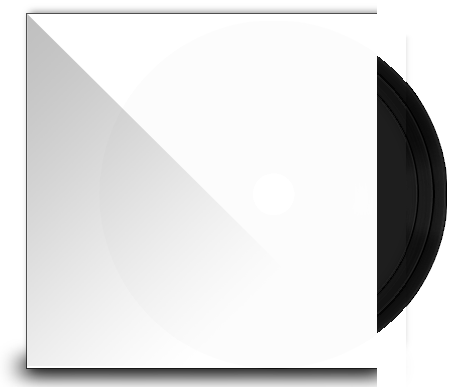
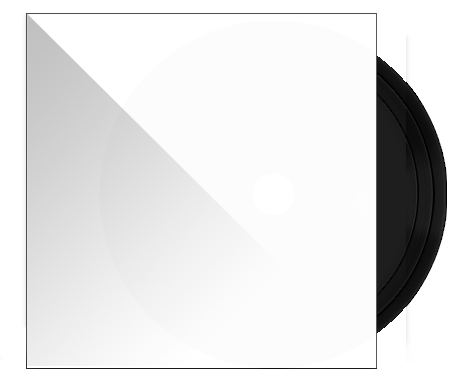
display: draw the drop shadow instead of baking it into the artwork
The shadow was part of sleeve.png, so it could not be moved, softened or
switched off -- and it was the reason the artwork sat off centre, reaching 23px
to the left of the cover and none to the right. Taylor removed it from the
image; this draws one instead.

show_shadow, shadow_offset_x/y, shadow_blur, shadow_opacity and shadow_color.
Offsets are fractions of the cover rather than pixels, so they hold their
proportions from a 480x320 panel to a 1080p one. It is drawn before the record,
because a shadow over the disc reads as a smudge on the vinyl rather than
something cast beneath it. The blurred surface is padded by twice the spread,
or the haze is clipped square and regains the hard edge it was meant to lose.

Also fixes a pixel of drift in the centring found while checking this: the
composition was positioned by centring the image and rounding afterwards, so
two roundings could stack. It now rounds the composition to whole pixels and
centres that, then places the image relative to it.

Two of the new tests measured "pixels darker than the background", which the
semi-transparent gloss also produces. They compare against the shadow-off
frame instead, and zero opacity is asserted to be pixel-identical to off.

Changed region(s): [[0.0, 0.8992, 0.8344, 1.0], [0.0618, 0.0, 0.8344, 0.062]]

diff --git a/nowspinning/ui/pygame_display.py b/nowspinning/ui/pygame_display.py
@@ -80,6 +80,10 @@ SHEEN_STRENGTH = 22
 #: as a fraction of the shorter side. Enough to not look cropped.
 ARTWORK_ONLY_MARGIN = 0.04
 
+#: How far the shadow's blur reaches at shadow_blur = 1, as a fraction of the
+#: cover's shorter side.
+SHADOW_SPREAD = 0.10
+
 #: Where to stamp the outline copies of a glyph, as multiples of the width.
 _OUTLINE_OFFSETS: tuple[tuple[int, int], ...] = (
     (-1, 0),
@@ -152,6 +156,7 @@ class PygameDisplay:
         self._sleeve_cache: dict[tuple[int, int, float], Any] = {}
         self._cover_cache: dict[tuple[str, int, int], Any] = {}
         self._background_cache: dict[tuple[Any, ...], Any] = {}
+        self._shadow_cache: dict[tuple[Any, ...], Any] = {}
         self._fonts: dict[tuple[str, int], Any] = {}
         self._library = FontLibrary(config.fonts, config.cache_dir)
         self._platter_size = 0
@@ -448,7 +453,6 @@ class PygameDisplay:
         Returns the rect the sleeve was drawn into, so the caller can lay text out
         beside it, or ``None`` if the asset is missing and the record was drawn.
         """
-        pygame = self._pygame
         display = self.config.display
         # With the record hidden there is nothing to the right of the jacket, so
         # the jacket alone is what has to fit the box -- otherwise the cover
@@ -464,12 +468,23 @@ class PygameDisplay:
         width, height = sleeve.get_size()
         left_px, right_px = COVER_LEFT * width, right * width
         top_px, bottom_px = COVER_TOP * height, COVER_BOTTOM * height
+
+        # Round the composition to whole pixels and centre *that*, then place the
+        # image relative to it. Centring the image and rounding afterwards lets
+        # two roundings stack, which lands the artwork a pixel off centre.
+        composition = self._pygame.Rect(0, 0, 0, 0)
+        composition.width = max(1, round(right_px - left_px))
+        composition.height = max(1, round(bottom_px - top_px))
+        composition.center = box.center
         rect = sleeve.get_rect()
-        rect.x = round(box.centerx - (left_px + right_px) / 2)
-        rect.y = round(box.centery - (top_px + bottom_px) / 2)
+        rect.x = composition.x - round(left_px)
+        rect.y = composition.y - round(top_px)
 
         split = rect.x + round(width * SLEEVE_RIGHT)
         window = self._art_window(rect)
+        # Under everything, including the record: a shadow drawn over the disc
+        # would look like a smudge on the vinyl rather than a shadow beneath it.
+        self._draw_shadow(window)
         cover = self._get_cover(window.width, window.height, state)
         if cover is not None:
             # Clipped to where the jacket ends. The cover window reaches five
@@ -484,14 +499,71 @@ class PygameDisplay:
             self._blit_clipped(sleeve, rect, split, rect.right)
             self._draw_disc_motion(rect)
 
-        # Report the ink, so the text column sits beside the artwork rather than
+        # Report the artwork, so the text column sits beside it rather than
         # beside the image's transparent margin.
-        return pygame.Rect(
-            round(rect.x + left_px),
-            round(rect.y + top_px),
-            max(1, round(right_px - left_px)),
-            max(1, round(bottom_px - top_px)),
+        return composition
+
+    def _draw_shadow(self, window: Any) -> None:
+        """A soft shadow under the cover.
+
+        The artwork carries no shadow of its own, so this is drawn rather than
+        painted in -- which is what makes it adjustable.
+        """
+        display = self.config.display
+        if not display.show_shadow or display.shadow_opacity <= 0.0:
+            return
+        shadow = self._get_shadow(window.width, window.height)
+        if shadow is None:
+            return
+        pad = (shadow.get_width() - window.width) // 2
+        self._screen.blit(
+            shadow,
+            (
+                window.x - pad + round(window.width * display.shadow_offset_x),
+                window.y - pad + round(window.height * display.shadow_offset_y),
+            ),
         )
+
+    def _get_shadow(self, width: int, height: int) -> Any:
+        display = self.config.display
+        key = (
+            width,
+            height,
+            display.shadow_blur,
+            display.shadow_opacity,
+            display.shadow_color,
+        )
+        cached = self._shadow_cache.get(key)
+        if cached is not None:
+            return cached
+        if width <= 0 or height <= 0:
+            return None
+
+        pygame = self._pygame
+        # Room for the blur to spread into; without it the haze is cut off square
+        # and the shadow gains the hard edge it was supposed to lose.
+        spread = round(display.shadow_blur * min(width, height) * SHADOW_SPREAD)
+        pad = max(1, spread * 2)
+        surface = pygame.Surface((width + pad * 2, height + pad * 2), pygame.SRCALPHA)
+        colour = parse_color(display.shadow_color, (0, 0, 0))
+        surface.fill(
+            (*colour, round(255 * display.shadow_opacity)),
+            pygame.Rect(pad, pad, width, height),
+        )
+
+        if spread > 0:
+            size = surface.get_size()
+            small = (
+                max(1, size[0] // max(2, spread)),
+                max(1, size[1] // max(2, spread)),
+            )
+            for _ in range(2):
+                surface = pygame.transform.smoothscale(
+                    pygame.transform.smoothscale(surface, small), size
+                )
+
+        self._shadow_cache = {key: surface}  # one shadow on screen at a time
+        return surface
 
     def _blit_clipped(self, surface: Any, rect: Any, left: int, right: int) -> None:
         """Blit ``surface`` at ``rect``, showing only the columns in [left, right)."""
@@ -607,7 +679,7 @@ class PygameDisplay:
         span_width = image.get_width() * (right - COVER_LEFT)
         span_height = image.get_height() * (COVER_BOTTOM - COVER_TOP)
         scale = min(max_width / span_width, max_height / span_height)
-        size = (max(1, int(image.get_width() * scale)), max(1, int(image.get_height() * scale)))
+        size = (max(1, round(image.get_width() * scale)), max(1, round(image.get_height() * scale)))
         scaled = pygame.transform.smoothscale(image, size)
         self._sleeve_cache[key] = scaled
         return scaled

diff --git a/tests/test_pygame_display.py b/tests/test_pygame_display.py
@@ -1129,3 +1129,121 @@ class TestArtworkCentring:
         x0, x1, y0, y1 = self._cover_bounds(frame)
         assert abs(x0 - (size[0] - 1 - x1)) <= 1
         assert abs(y0 - (size[1] - 1 - y1)) <= 1
+
+
+class TestDropShadow:
+    """A drawn shadow, since the artwork no longer carries one."""
+
+    ALL_OFF: ClassVar[dict[str, bool]] = {
+        "show_heading": False,
+        "show_title": False,
+        "show_artist": False,
+        "show_album": False,
+    }
+
+    @pytest.fixture
+    def cover(self, tmp_path):
+        pygame.display.set_mode((64, 64))
+        surface = pygame.Surface((300, 300))
+        surface.fill((150, 60, 190))
+        path = tmp_path / "cover.png"
+        pygame.image.save(surface, str(path))
+        return path
+
+    def _build(self, config, cover, **overrides):
+        config.display.width, config.display.height = 480, 320
+        config.display.fullscreen = False
+        config.fonts.source = "builtin"
+        config.display.show_vinyl = False
+        for key, value in {**self.ALL_OFF, **overrides}.items():
+            setattr(config.display, key, value)
+        d = PygameDisplay(config, StateStore())
+        d._pygame = d._init_pygame()
+        d._open_window()
+        d.store.update(status="playing", track=TRACK, artwork_path=cover)
+        d.draw(d.store.snapshot())
+        return d
+
+    def _frame(self, config, cover, **overrides):
+        return self._build(config, cover, **overrides)._screen.copy()
+
+    @staticmethod
+    def _darkened(frame, background):
+        """Pixels darker than the background -- only a shadow does that."""
+        px = pygame.surfarray.pixels3d(frame).astype(int)
+        return int((px.sum(axis=2) < sum(background) - 6).sum())
+
+    def test_on_by_default(self, config):
+        assert config.display.show_shadow is True
+
+    def test_it_darkens_the_background(self, config, cover):
+        # Relative, not absolute: the gloss is semi-transparent black and darkens
+        # a little beyond the cover too, so "any dark pixel" is not the shadow.
+        background = parse_color(config.display.background)
+        with_shadow = self._darkened(self._frame(config, cover), background)
+        without = self._darkened(self._frame(config, cover, show_shadow=False), background)
+        assert with_shadow > without
+
+    def test_zero_opacity_is_the_same_as_off(self, config, cover):
+        transparent = self._frame(config, cover, shadow_opacity=0.0)
+        disabled = self._frame(config, cover, show_shadow=False)
+        assert pygame.image.tostring(transparent, "RGB") == pygame.image.tostring(disabled, "RGB")
+
+    def test_the_offset_moves_it(self, config, cover):
+        def centroid(**kw):
+            px = pygame.surfarray.pixels3d(self._frame(config, cover, **kw)).astype(int)
+            mask = px.sum(axis=2) < sum(parse_color(config.display.background)) - 6
+            xs, ys = np.where(mask)
+            return xs.mean(), ys.mean()
+
+        left = centroid(shadow_offset_x=-0.05, shadow_offset_y=0.0)
+        right = centroid(shadow_offset_x=0.05, shadow_offset_y=0.0)
+        down = centroid(shadow_offset_x=0.0, shadow_offset_y=0.05)
+        assert right[0] > left[0], "positive x should move it right"
+        assert down[1] > left[1], "positive y should move it down"
+
+    def test_blurring_spreads_it(self, config, cover):
+        background = parse_color(config.display.background)
+        hard = self._darkened(self._frame(config, cover, shadow_blur=0.0), background)
+        soft = self._darkened(self._frame(config, cover, shadow_blur=1.0), background)
+        assert soft > hard, "a blurred shadow should cover more ground"
+
+    def test_opacity_changes_the_depth(self, config, cover):
+        background = parse_color(config.display.background)
+        faint = self._darkened(self._frame(config, cover, shadow_opacity=0.15), background)
+        strong = self._darkened(self._frame(config, cover, shadow_opacity=1.0), background)
+        assert strong > faint
+
+    def test_the_colour_is_used(self, config, cover):
+        # A blue shadow on a near-black background is unmistakable.
+        px = pygame.surfarray.pixels3d(
+            self._frame(config, cover, shadow_color="#0000ff", shadow_opacity=1.0, shadow_blur=0.0)
+        ).astype(int)
+        assert ((px[:, :, 2] > 120) & (px[:, :, 0] < 60)).any()
+
+    def test_it_goes_under_the_record(self, config, cover):
+        # Drawn over the disc it would read as a smudge on the vinyl.
+        d = self._build(
+            config,
+            cover,
+            show_vinyl=True,
+            shadow_opacity=1.0,
+            shadow_blur=0.0,
+            shadow_offset_x=0.12,
+            shadow_offset_y=0.0,
+        )
+        px = pygame.surfarray.pixels3d(d._screen).astype(int)
+        # Pure shadow colour must not appear inside the disc's crescent.
+        art = d._get_sleeve(int(480 * 0.52), int(320 * 0.92), DISC_EDGE)
+        assert art is not None
+        assert not ((px[:, :, 0] == 0) & (px[:, :, 1] == 0) & (px[:, :, 2] == 0)).all()
+
+    def test_it_is_cached(self, config, cover):
+        d = self._build(config, cover)
+        assert len(d._shadow_cache) == 1
+        d.draw(d.store.snapshot())
+        assert len(d._shadow_cache) == 1
+
+    @pytest.mark.parametrize("blur", [0.0, 0.5, 1.0])
+    def test_it_draws_at_any_blur(self, config, cover, blur):
+        self._frame(config, cover, shadow_blur=blur)

diff --git a/nowspinning/config.py b/nowspinning/config.py
@@ -202,6 +202,32 @@ class DisplayConfig(_Base):
             "cover. false shows the cover art untouched."
         ),
     )
+    # -- drop shadow -------------------------------------------------------
+    show_shadow: bool = Field(
+        default=True,
+        description="Sleeve style only: cast a soft shadow under the cover.",
+    )
+    shadow_offset_x: float = Field(
+        default=0.008,
+        ge=-0.5,
+        le=0.5,
+        description="Shadow offset as a fraction of the cover's width; positive is right.",
+    )
+    shadow_offset_y: float = Field(
+        default=0.016,
+        ge=-0.5,
+        le=0.5,
+        description="Shadow offset as a fraction of the cover's height; positive is down.",
+    )
+    shadow_blur: float = Field(
+        default=0.5,
+        ge=0.0,
+        le=1.0,
+        description="0 is a hard edge, 1 is a wide haze.",
+    )
+    shadow_opacity: float = Field(default=0.5, ge=0.0, le=1.0)
+    shadow_color: str = "#000000"
+
     # -- what text to show ------------------------------------------------
     show_heading: bool = Field(default=True, description="Show the label above the track.")
     heading_text: str | None = Field(

diff --git a/README.md b/README.md
@@ -145,6 +145,9 @@ The keys worth knowing:
 | `display.style` | `sleeve` | `sleeve` (cover in a record sleeve) or `record` (cover on a spinning platter) |
 | `display.show_vinyl` | `true` | Sleeve style: draw the turning record behind the cover |
 | `display.show_gloss` | `true` | Sleeve style: lay the jacket's gloss over the cover |
+| `display.show_shadow` | `true` | Sleeve style: cast a soft shadow under the cover |
+| `display.shadow_offset_x` / `_y` | `0.008` / `0.016` | Shadow offset, as a fraction of the cover |
+| `display.shadow_blur` / `_opacity` / `_color` | `0.5` / `0.5` / `#000000` | How soft, how dark, what colour |
 | `display.show_heading` / `show_title` / `show_artist` / `show_album` | `true` | Which lines of text to show |
 | `display.heading_text` | auto | Replace "Now spinning" with your own words |
 | `display.background_mode` | `solid` | `solid`, or `artwork` for a blurred zoom of the cover |
